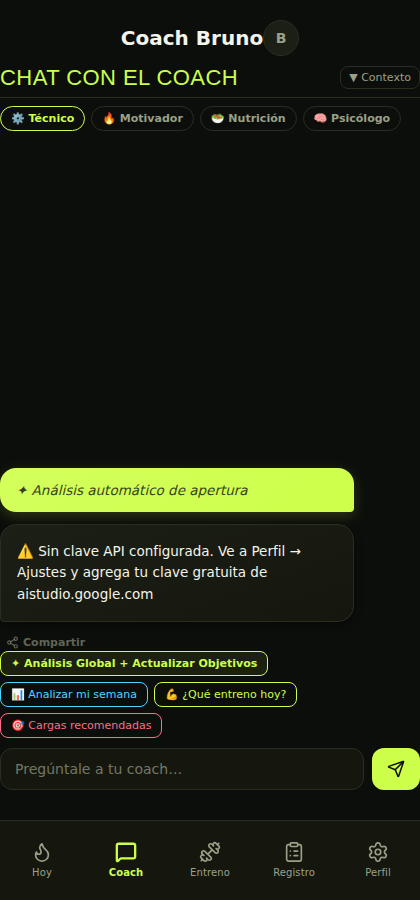
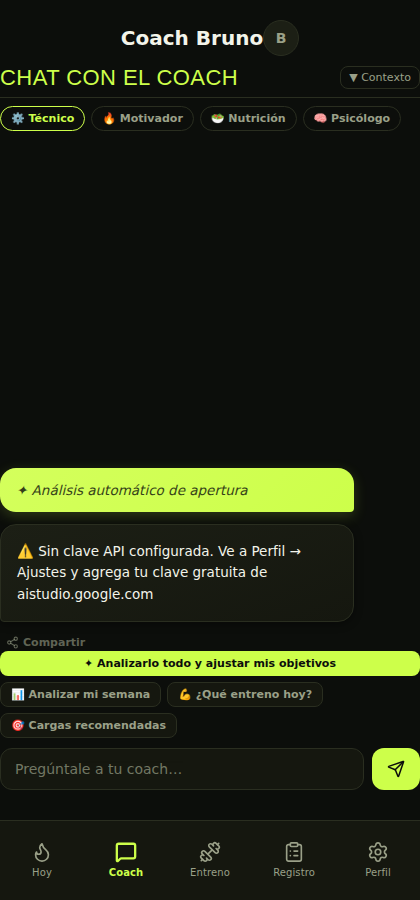
feat: cierra las mejoras de interfaz pendientes (W40)
Últimos puntos de la revisión.

Gráfico de calorías con referencia
- El objetivo solo aparecía como texto debajo del gráfico, así que no se
  veía qué días se habían pasado. Ahora hay línea de objetivo punteada con
  su etiqueta, y el pie indica la media de la semana y cuántos días la
  superaron
- Las etiquetas de día se sacaron del área del gráfico: contarlas dentro
  descuadraba la escala y dejaba la línea justo encima de las barras,
  invisible. Además se reserva un 15% de aire por encima del máximo

Indicador de rendimiento explicado
- "Rendimiento este mes" eran diez cuadraditos sin decir qué medían. Ahora
  es una barra con el desglose visible: constancia /4, volumen /3 y
  progreso /3

Botones del coach con jerarquía
- Cuatro botones con cuatro colores distintos y sin jerarquía. El principal
  pasa a ser sólido y a ancho completo; los tres secundarios comparten un
  estilo neutro

Texto
- "Bien hidratada" concordaba en femenino con la planta y se leía como si
  hablara del usuario: ahora "Buena hidratación"

115 tests en verde en America/Santiago y UTC.

Versión W40

Claude-Session: https://claude.ai/code/session_01QiHKHyunB4zQch9UpcZCsF

Changed region(s): [[0.0, 0.7156, 1.0, 0.84]]

diff --git a/app.js b/app.js
@@ -1,4 +1,4 @@
-const APP_VERSION = "v2026.06.23-W39";
+const APP_VERSION = "v2026.06.23-W40";
 
 import React, { useState, useEffect, useRef, useMemo } from "react";
 import { createRoot } from "react-dom/client";
@@ -7335,7 +7335,7 @@ const PlantaHidratacion = React.memo(function PlantaHidratacion({ water, waterGo
 
   let statusText, statusColor;
   if (pct >= 0.85) { statusText = "¡Floreciendo! 🌿"; statusColor = C.lime; }
-  else if (pct >= 0.6) { statusText = "Bien hidratada 💧"; statusColor = C.cyan; }
+  else if (pct >= 0.6) { statusText = "Buena hidratación 💧"; statusColor = C.cyan; }
   else if (pct >= 0.3) { statusText = "Sedienta… 🥤"; statusColor = C.amber; }
   else { statusText = "¡Se marchita! 🥀"; statusColor = C.rose; }
 
@@ -8154,27 +8154,57 @@ Analiza la adherencia real a los objetivos del día y da 2-3 sugerencias concret
       </div>
 
       {weekKcal.some(d => d.kcal > 0) && (() => {
-        const maxK = Math.max(...weekKcal.map(d=>d.kcal), target?.kcal||2200);
         const tgt = target?.kcal || 2200;
+        // Se deja un 15% de aire por encima del valor más alto para que la
+        // línea de objetivo no quede pegada al borde y se pueda ver.
+        const maxK = Math.max(...weekKcal.map(d=>d.kcal), tgt) * 1.15;
         const DAYS = ['L','M','X','J','V','S','D'];
         return (
           <div style={{background:C.panel, border:`1px solid ${C.line}`, borderRadius:14, padding:"12px 14px", marginBottom:12}}>
             <div style={{fontSize:11, fontWeight:800, color:C.muted, textTransform:"uppercase", letterSpacing:".06em", marginBottom:8}}>Calorías · 7 días</div>
-            <div style={{display:"flex", alignItems:"flex-end", gap:4, height:44}}>
-              {weekKcal.map((d,i) => {
-                const h = d.kcal > 0 ? Math.max(4, Math.round((d.kcal/maxK)*44)) : 3;
-                const isToday = d.date === selectedDateStr;
-                const aboveTarget = d.kcal > tgt * 1.05;
-                const col = d.kcal === 0 ? C.line : aboveTarget ? C.amber : isToday ? C.lime : C.cyan;
-                return (
-                  <div key={i} style={{flex:1, display:"flex", flexDirection:"column", alignItems:"center", gap:2}}>
-                    <div style={{width:"100%", height:h, background:col, borderRadius:3, transition:"height .3s"}}/>
-                    <div style={{fontSize:8, color: isToday ? C.lime : C.muted, fontWeight: isToday ? 800 : 500}}>{DAYS[(new Date(d.date+'T12:00:00').getDay()+6)%7]}</div>
+            {/* Línea de objetivo sobre las barras. Las etiquetas de día van
+                FUERA del área del gráfico: si van dentro, la escala no cuadra
+                y la línea acaba justo encima de las barras, invisible. */}
+            {(() => {
+              const H = 46;                                  // alto solo de las barras
+              const yObjetivo = Math.round((tgt / maxK) * H); // px desde abajo
+              return (
+                <>
+                  <div style={{position:"relative", height:H, marginBottom:3}}>
+                    <div style={{position:"absolute", left:0, right:0, bottom:yObjetivo, borderTop:`1px dashed ${C.muted}`, opacity:.6, zIndex:2}}/>
+                    <div style={{position:"absolute", right:0, bottom:yObjetivo + 1, fontSize:8, color:C.muted, opacity:.85, zIndex:3, background:C.panel, padding:"0 3px"}}>
+                      objetivo {tgt}
+                    </div>
+                    <div style={{display:"flex", alignItems:"flex-end", gap:4, height:H}}>
+                      {weekKcal.map((d,i) => {
+                        const h = d.kcal > 0 ? Math.max(3, Math.round((d.kcal / maxK) * H)) : 2;
+                        const isToday = d.date === selectedDateStr;
+                        const aboveTarget = d.kcal > tgt * 1.05;
+                        const col = d.kcal === 0 ? C.line : aboveTarget ? C.amber : isToday ? C.lime : C.cyan;
+                        return (
+                          <div key={i} style={{flex:1, height:h, background:col, borderRadius:3, transition:"height .3s"}}
+                            title={d.kcal > 0 ? `${d.kcal} kcal` : "Sin registro"}/>
+                        );
+                      })}
+                    </div>
                   </div>
-                );
-              })}
+                  <div style={{display:"flex", gap:4}}>
+                    {weekKcal.map((d,i) => {
+                      const isToday = d.date === selectedDateStr;
+                      return (
+                        <div key={i} style={{flex:1, textAlign:"center", fontSize:8, color: isToday ? C.lime : C.muted, fontWeight: isToday ? 800 : 500}}>
+                          {DAYS[(new Date(d.date+'T12:00:00').getDay()+6)%7]}
+                        </div>
+                      );
+                    })}
+                  </div>
+                </>
+              );
+            })()}
+            <div style={{fontSize:9.5, color:C.muted, marginTop:4}}>
+              Media de la semana: <b style={{color:C.ink}}>{Math.round(weekKcal.filter(d=>d.kcal>0).reduce((a,d)=>a+d.kcal,0) / Math.max(1, weekKcal.filter(d=>d.kcal>0).length))} kcal</b>
+              {" · "}{weekKcal.filter(d => d.kcal > tgt * 1.05).length} día(s) por encima
             </div>
-            <div style={{fontSize:9.5, color:C.muted, marginTop:4}}>Objetivo: {tgt} kcal · Hoy: {weekKcal[6]?.kcal || 0} kcal</div>
           </div>
         );
       })()}
@@ -9479,28 +9509,28 @@ function Coach({
         <button
           onClick={() => sendCoachMessage('Analiza TODOS mis datos actuales en conjunto: composición corporal Fitdays (peso, grasa, SMM, Score), análisis de fotos de progreso, historial de entrenamiento y nutrición de las últimas semanas. Con base en todo esto: 1) ¿Son óptimos mis objetivos actuales de calorías y macros? Si no, actualízalos con UPDATE_TARGET. 2) ¿Mi split es el adecuado para mi objetivo actual? Si no, ajústalo con UPDATE_SPLITS. 3) Dame 3 acciones concretas prioritarias para las próximas 4 semanas.')}
           disabled={chatBusy}
-          style={{fontSize:11, padding:"5px 10px", borderRadius:8, border:`1px solid #cdff4a`, background:"rgba(205,255,74,0.08)", color:"#cdff4a", cursor:"pointer", opacity: chatBusy ? 0.5 : 1, fontWeight:800}}
+          style={{fontSize:11, padding:"6px 11px", borderRadius:8, border:"none", background:C.lime, color:"#0c0e0b", cursor:"pointer", opacity: chatBusy ? 0.5 : 1, fontWeight:800, width:"100%"}}
         >
-          ✦ Análisis Global + Actualizar Objetivos
+          ✦ Analizarlo todo y ajustar mis objetivos
         </button>
         <button
           onClick={() => sendCoachMessage('Haceme un análisis completo de mi semana de entrenamiento: PRs actuales, progresión de fuerza, volumen total, si estoy progresando en cada ejercicio y qué debo mejorar la semana que viene.')}
           disabled={chatBusy}
-          style={{fontSize:11, padding:"5px 10px", borderRadius:8, border:`1px solid ${C.cyan}`, background:"transparent", color:C.cyan, cursor:"pointer", opacity: chatBusy ? 0.5 : 1}}
+          style={{fontSize:11, padding:"5px 10px", borderRadius:8, border:`1px solid ${C.line}`, background:C.panel, color:C.muted, cursor:"pointer", opacity: chatBusy ? 0.5 : 1, fontWeight:600}}
         >
           📊 Analizar mi semana
         </button>
         <button
           onClick={() => sendCoachMessage('¿Qué músculo me conviene entrenar hoy según mi split y mi historial reciente? ¿Estoy descansando suficiente?')}
           disabled={chatBusy}
-          style={{fontSize:11, padding:"5px 10px", borderRadius:8, border:`1px solid ${C.lime}`, background:"transparent", color:C.lime, cursor:"pointer", opacity: chatBusy ? 0.5 : 1}}
+          style={{fontSize:11, padding:"5px 10px", borderRadius:8, border:`1px solid ${C.line}`, background:C.panel, color:C.muted, cursor:"pointer", opacity: chatBusy ? 0.5 : 1, fontWeight:600}}
         >
           💪 ¿Qué entreno hoy?
         </button>
         <button
           onClick={() => sendCoachMessage('Basándote en mi progresión histórica y PRs actuales, ¿cuánto debería cargar esta semana en cada ejercicio para seguir progresando sin lesionarme?')}
           disabled={chatBusy}
-          style={{fontSize:11, padding:"5px 10px", borderRadius:8, border:`1px solid ${C.rose}`, background:"transparent", color:C.rose, cursor:"pointer", opacity: chatBusy ? 0.5 : 1}}
+          style={{fontSize:11, padding:"5px 10px", borderRadius:8, border:`1px solid ${C.line}`, background:C.panel, color:C.muted, cursor:"pointer", opacity: chatBusy ? 0.5 : 1, fontWeight:600}}
         >
           🎯 Cargas recomendadas
         </button>
@@ -13086,11 +13116,21 @@ tr:last-child td{border-bottom:none}
               });
               const progressScore = Math.min(3, topProgress.length);
               const totalScore = Math.round((trainDaysScore + volumeScore + progressScore) * 10) / 10;
-              const filled = Math.round(totalScore);
-              const squares = [...Array(10)].map((_, i) => i < filled ? "⬛" : "⬜").join("");
               return (
-                <div style={{background:"rgba(205,255,74,0.05)", border:"1px solid rgba(205,255,74,0.12)", borderRadius:8, padding:"6px 10px", fontSize:11, color:C.muted, marginBottom:8, display:"flex", alignItems:"center", gap:6}}>
-                  Rendimiento este mes: <span style={{letterSpacing:1}}>{squares}</span> <span style={{color:C.lime, fontWeight:800}}>{totalScore}/10</span>
+                // Los cuadraditos no decían qué medían: ahora se desglosa de
+                // dónde sale la nota y una barra sustituye a los emojis.
+                <div title={`Constancia ${trainDaysScore}/4 · Volumen ${volumeScore}/3 · Progreso ${progressScore}/3`}
+                  style={{background:"rgba(205,255,74,0.05)", border:"1px solid rgba(205,255,74,0.12)", borderRadius:8, padding:"7px 10px", fontSize:11, color:C.muted, marginBottom:8}}>
+                  <div style={{display:"flex", alignItems:"center", justifyContent:"space-between", marginBottom:5}}>
+                    <span>Rendimiento este mes</span>
+                    <span style={{color:C.lime, fontWeight:800}}>{totalScore}/10</span>
+                  </div>
+                  <div style={{height:5, background:C.panel2, borderRadius:3, overflow:"hidden", marginBottom:5}}>
+                    <div style={{height:"100%", width:`${totalScore * 10}%`, background:C.lime, borderRadius:3}}/>
+                  </div>
+                  <div style={{fontSize:9.5, opacity:.85}}>
+                    Constancia {trainDaysScore}/4 · Volumen {volumeScore}/3 · Progreso {progressScore}/3
+                  </div>
                 </div>
               );
             })()}
